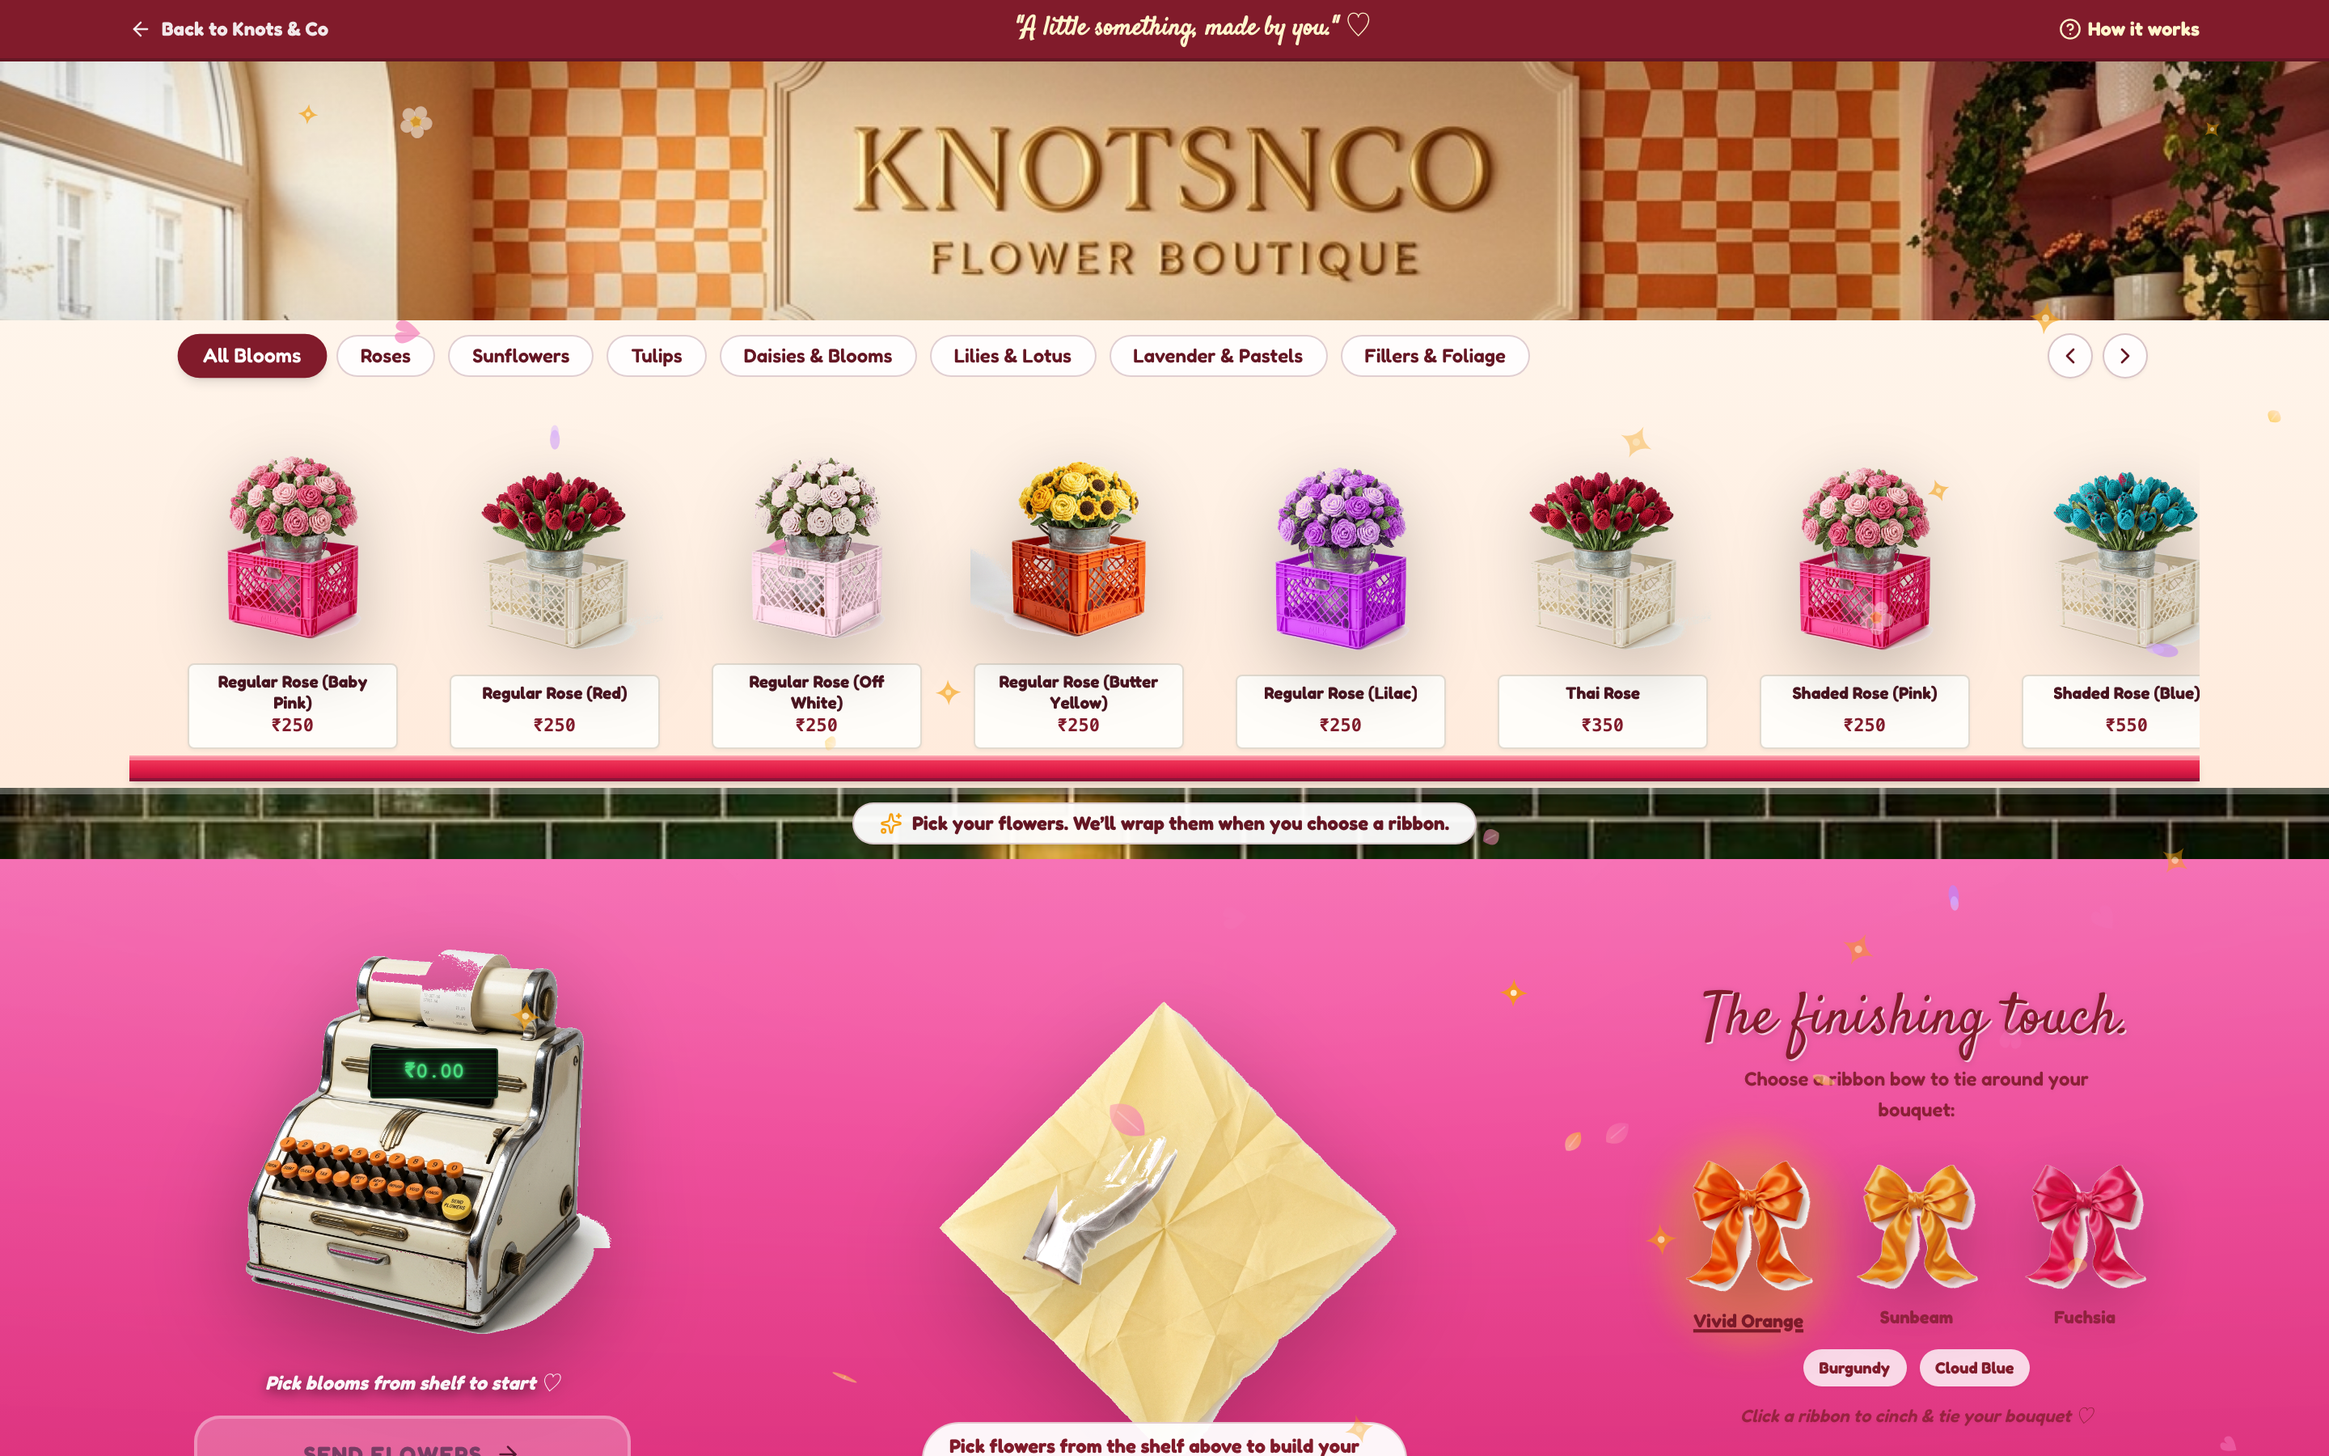
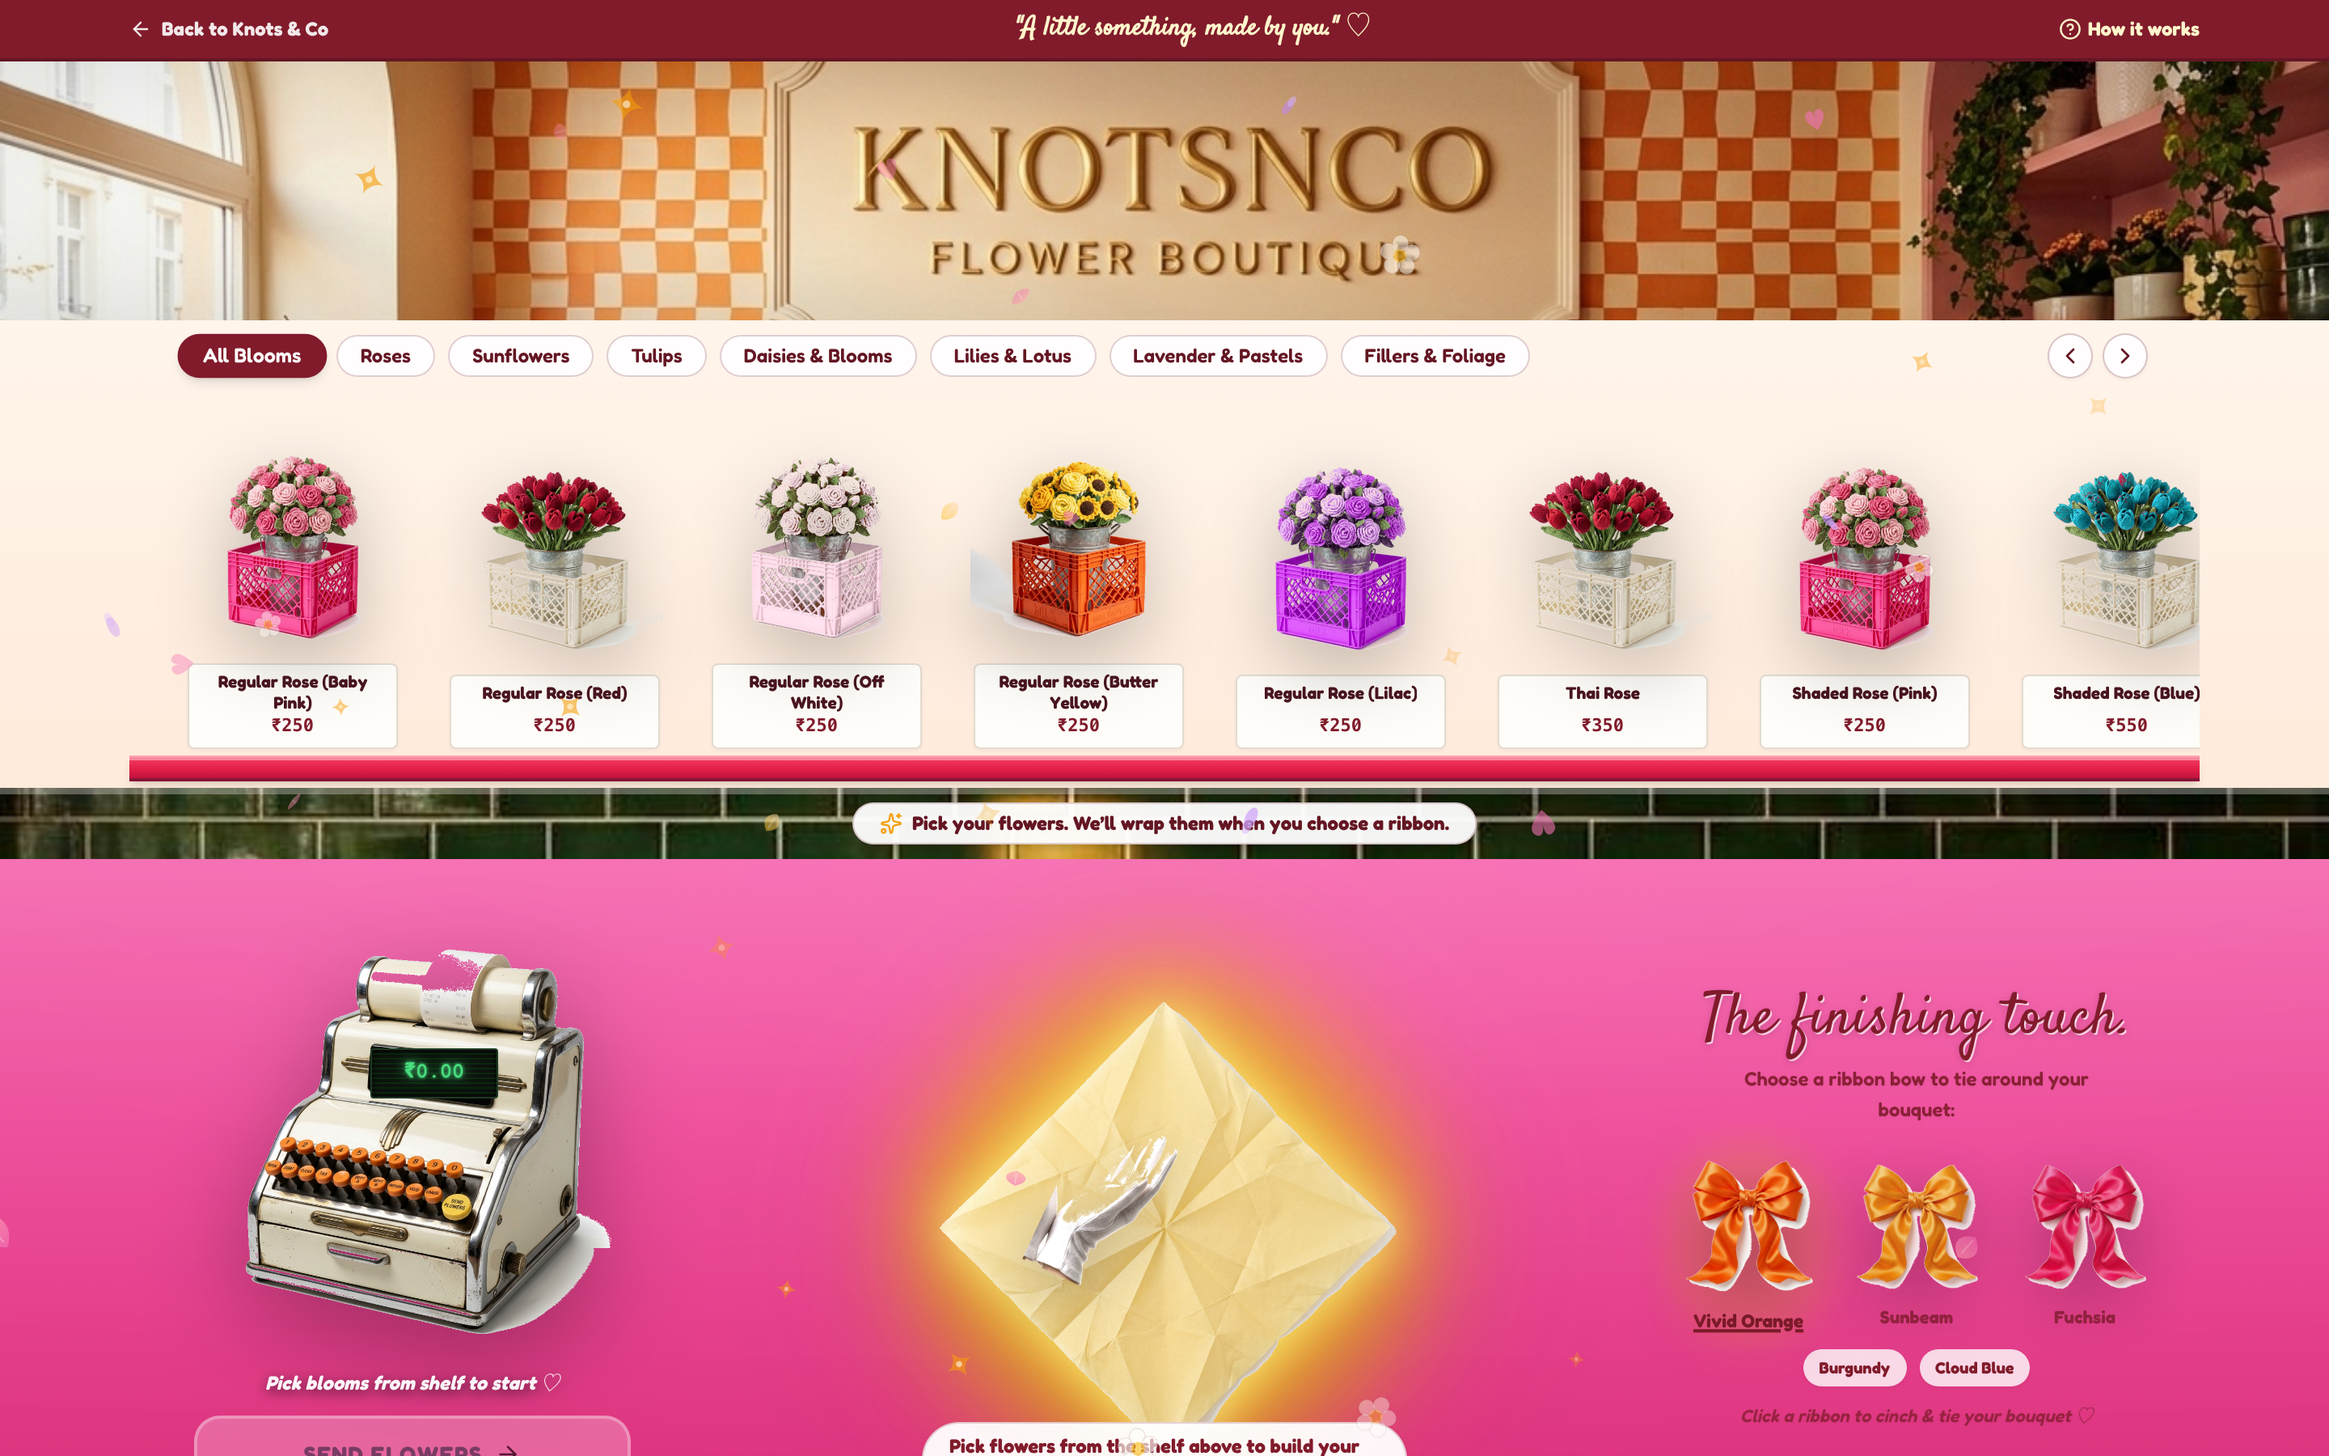
feat(bouquet-builder): add ethereal golden glow around wrapping paper and luminous rim lighting to flowers matching reference

diff --git a/src/components/bouquet-builder/LiveBouquetCounter.tsx b/src/components/bouquet-builder/LiveBouquetCounter.tsx
@@ -48,7 +48,7 @@ export const LiveBouquetCounter: React.FC<LiveBouquetCounterProps> = ({
   // If user has chosen ribbon AND has at least 1 flower, bouquet wraps into a cone!
   const isWrapped = hasRibbonChosen && totalCount > 0;
 
-  // Natural fan arrangement for flower blossoms on open paper
+  // Natural fan arrangement for flower blossoms on open paper (Snug, lush bunch matching Petal Post)
   const getUnwrappedStemStyle = (index: number, total: number): React.CSSProperties => {
     if (total === 0) return {};
     if (total === 1) {
@@ -61,16 +61,16 @@ export const LiveBouquetCounter: React.FC<LiveBouquetCounterProps> = ({
 
     const spread = Math.min(total - 1, 10);
     const progress = spread === 0 ? 0.5 : index / spread;
-    // Fan angle between -26deg and +26deg
-    const angleRange = Math.min(52, 16 + spread * 3.6);
+    // Fan angle between -20deg and +20deg (snug florist fan)
+    const angleRange = Math.min(40, 14 + spread * 3.0);
     const angle = -angleRange / 2 + progress * angleRange;
 
-    // Horizontal spread from -85px to +85px
-    const xRange = Math.min(170, 24 + spread * 15);
+    // Horizontal spread from -55px to +55px (tightly gathered florist bunch matching reference)
+    const xRange = Math.min(115, 20 + spread * 11);
     const xOffset = -xRange / 2 + progress * xRange;
 
     // Arch height: center blooms sit higher
-    const archOffset = (1 - Math.pow((progress - 0.5) * 2, 2)) * 26;
+    const archOffset = (1 - Math.pow((progress - 0.5) * 2, 2)) * 22;
 
     return {
       transform: `translateX(${xOffset}px) translateY(${-archOffset}px) rotate(${angle}deg)`,
@@ -119,18 +119,33 @@ export const LiveBouquetCounter: React.FC<LiveBouquetCounterProps> = ({
               with resting white-gloved hand (Matching Annie's Petal Post)
              ══════════════════════════════════════════════════════════════ */
           <div className="relative flex flex-col items-center justify-center pb-2 animate-fadeIn">
-            {/* Flat diamond open wrapping sheet */}
-            <div className="relative w-[300px] h-[300px] drop-shadow-[0_20px_35px_rgba(0,0,0,0.24)] transition-transform duration-300 hover:scale-[1.02]">
+            {/* Flat diamond open wrapping sheet with centered radiant backlight */}
+            <div className="relative w-[300px] h-[300px] flex items-center justify-center transition-transform duration-300 hover:scale-[1.02]">
+              {/* Luminous yellow radial halo (100% locked to paper center) */}
+              <div
+                className="absolute inset-0 rounded-full pointer-events-none"
+                style={{
+                  background:
+                    'radial-gradient(circle, rgba(254, 240, 138, 0.7) 0%, rgba(250, 204, 21, 0.45) 45%, rgba(245, 158, 11, 0.15) 70%, transparent 85%)',
+                  filter: 'blur(24px)',
+                  transform: 'scale(1.15)',
+                }}
+              />
+
               <img
                 src="/boutique/wrapping-paper-open.png"
                 alt="Open wrapping paper sheet"
-                className="w-full h-full object-contain pointer-events-none select-none"
+                className="relative z-10 w-full h-full object-contain pointer-events-none select-none"
+                style={{
+                  filter:
+                    'drop-shadow(0 0 16px rgba(254, 240, 138, 0.95)) drop-shadow(0 0 32px rgba(250, 204, 21, 0.85)) drop-shadow(0 0 50px rgba(234, 179, 8, 0.5)) drop-shadow(0 16px 28px rgba(0,0,0,0.22))',
+                }}
               />
             </div>
 
             {/* Photorealistic White Gloved Hand resting on paper */}
             <div
-              className="absolute pointer-events-none drop-shadow-[0_10px_20px_rgba(0,0,0,0.3)]"
+              className="absolute pointer-events-none drop-shadow-[0_10px_20px_rgba(0,0,0,0.3)] z-15"
               style={{
                 width: '130px',
                 height: '150px',
@@ -147,7 +162,7 @@ export const LiveBouquetCounter: React.FC<LiveBouquetCounterProps> = ({
             </div>
 
             {/* Instruction Bubble */}
-            <div className="absolute -bottom-2 inset-x-0 flex justify-center pointer-events-none">
+            <div className="absolute -bottom-2 inset-x-0 flex justify-center pointer-events-none z-20">
               <span className="font-['Fredoka'] font-bold text-xs text-[#811B2B] bg-white/95 px-4 py-1.5 rounded-full shadow-md border border-[#811B2B]/20">
                 Pick flowers from the shelf above to build your bouquet ♡
               </span>
@@ -159,15 +174,30 @@ export const LiveBouquetCounter: React.FC<LiveBouquetCounterProps> = ({
               with green stems converging and gloved hand holding stems
              ══════════════════════════════════════════════════════════════ */
           <>
-            {/* Open diamond wrapping paper sheet underneath */}
+            {/* Open diamond wrapping paper sheet underneath with perfectly centered radiant halo */}
             <div
-              className="absolute bottom-3 left-1/2 -translate-x-1/2 z-10 pointer-events-none"
+              className="absolute bottom-3 left-1/2 -translate-x-1/2 z-10 pointer-events-none flex items-center justify-center"
               style={{ width: '310px', height: '310px' }}
             >
+              {/* Luminous sunny-yellow radiant backlight halo (100% centered on paper) */}
+              <div
+                className="absolute inset-0 rounded-full pointer-events-none"
+                style={{
+                  background:
+                    'radial-gradient(circle, rgba(254, 240, 138, 0.75) 0%, rgba(250, 204, 21, 0.5) 45%, rgba(245, 158, 11, 0.18) 70%, transparent 85%)',
+                  filter: 'blur(26px)',
+                  transform: 'scale(1.18)',
+                }}
+              />
+
               <img
                 src="/boutique/wrapping-paper-open.png"
                 alt="Open wrapping paper"
-                className="w-full h-full object-contain drop-shadow-[0_18px_32px_rgba(0,0,0,0.22)] pointer-events-none"
+                className="relative z-10 w-full h-full object-contain pointer-events-none"
+                style={{
+                  filter:
+                    'drop-shadow(0 0 16px rgba(254, 240, 138, 0.95)) drop-shadow(0 0 32px rgba(250, 204, 21, 0.85)) drop-shadow(0 0 50px rgba(234, 179, 8, 0.5)) drop-shadow(0 16px 28px rgba(0,0,0,0.22))',
+                }}
               />
             </div>
 
@@ -186,7 +216,7 @@ export const LiveBouquetCounter: React.FC<LiveBouquetCounterProps> = ({
                 {flowerInstances.slice(0, 16).map((_, idx) => {
                   const spread = Math.min(flowerInstances.length - 1, 10);
                   const progress = spread === 0 ? 0.5 : idx / spread;
-                  const xRange = Math.min(160, 20 + spread * 14);
+                  const xRange = Math.min(115, 20 + spread * 11);
                   const startX = 120 + (progress - 0.5) * xRange;
                   return (
                     <line
@@ -196,16 +226,31 @@ export const LiveBouquetCounter: React.FC<LiveBouquetCounterProps> = ({
                       x2="120"
                       y2="105"
                       stroke="#3B6B22"
-                      strokeWidth="2.8"
+                      strokeWidth="3.2"
                       strokeLinecap="round"
-                      opacity="0.9"
+                      opacity="0.95"
                     />
                   );
                 })}
               </svg>
             </div>
 
-            {/* Flowers fanning out on the open paper (Nestled directly on yellow paper) */}
+            {/* ── Luminous Soft Bloom behind flower heads ── */}
+            <div
+              className="absolute pointer-events-none z-18 rounded-full"
+              style={{
+                bottom: '95px',
+                left: '50%',
+                transform: 'translateX(-50%)',
+                width: '180px',
+                height: '130px',
+                background:
+                  'radial-gradient(ellipse at center, rgba(255, 255, 255, 0.75) 0%, rgba(254, 240, 138, 0.5) 45%, rgba(250, 204, 21, 0.2) 75%, transparent 90%)',
+                filter: 'blur(16px)',
+              }}
+            />
+
+            {/* Flowers fanning out on the open paper (Nestled directly on yellow paper with glowing luminous pop) */}
             <div
               className="absolute bottom-[65px] left-1/2 pointer-events-none z-20"
               style={{ transform: 'translateX(-50%)', width: '1px', height: '1px' }}
@@ -227,7 +272,11 @@ export const LiveBouquetCounter: React.FC<LiveBouquetCounterProps> = ({
                     <img
                       src={flower.cutoutImage || flower.image}
                       alt={flower.name}
-                      className="w-full h-full object-contain select-none pointer-events-none drop-shadow-[0_10px_18px_rgba(0,0,0,0.25)]"
+                      className="w-full h-full object-contain select-none pointer-events-none transition-transform duration-300 hover:scale-105"
+                      style={{
+                        filter:
+                          'brightness(1.08) contrast(1.06) saturate(1.15) drop-shadow(0 0 10px rgba(255, 245, 180, 0.7)) drop-shadow(0 0 20px rgba(254, 224, 71, 0.4)) drop-shadow(0 12px 20px rgba(0,0,0,0.25))',
+                      }}
                     />
                   </div>
                 );
@@ -251,10 +300,10 @@ export const LiveBouquetCounter: React.FC<LiveBouquetCounterProps> = ({
               />
             </div>
 
-            {/* Subtitle guidance text */}
-            <div className="absolute -bottom-1 inset-x-0 flex justify-center z-30">
-              <span className="font-['Fredoka'] text-[11px] font-bold text-[#811B2B] bg-white/95 px-4 py-1.5 rounded-full shadow-sm border border-[#811B2B]/20">
-                Choose a ribbon on the right to wrap your bouquet 🎀
+            {/* ── Small White Stem Count Pill at bottom tip of paper (Matching Petal Post reference) ── */}
+            <div className="absolute -bottom-1.5 inset-x-0 flex justify-center z-30 pointer-events-none">
+              <span className="font-['Fredoka'] text-[11px] font-bold text-[#811B2B] bg-white/95 px-3.5 py-1 rounded-full shadow-md border border-[#811B2B]/20">
+                {totalCount} {totalCount === 1 ? 'stem' : 'stems'}
               </span>
             </div>
           </>
@@ -304,7 +353,11 @@ export const LiveBouquetCounter: React.FC<LiveBouquetCounterProps> = ({
                     <img
                       src={flower.cutoutImage || flower.image}
                       alt={flower.name}
-                      className="w-full h-full object-contain select-none pointer-events-none drop-shadow-[0_10px_18px_rgba(0,0,0,0.25)]"
+                      className="w-full h-full object-contain select-none pointer-events-none"
+                      style={{
+                        filter:
+                          'brightness(1.08) contrast(1.06) saturate(1.15) drop-shadow(0 0 10px rgba(255, 245, 180, 0.7)) drop-shadow(0 0 20px rgba(254, 224, 71, 0.4)) drop-shadow(0 10px 18px rgba(0,0,0,0.28))',
+                      }}
                     />
                   </div>
                 );
@@ -334,15 +387,30 @@ export const LiveBouquetCounter: React.FC<LiveBouquetCounterProps> = ({
               </div>
             )}
 
-            {/* Photorealistic Folded Crepe Paper Cone (z-20) */}
+            {/* Photorealistic Folded Crepe Paper Cone (z-20) with centered radiant backlight */}
             <div
-              className="absolute bottom-2 left-1/2 -translate-x-1/2 z-20 pointer-events-none"
+              className="absolute bottom-2 left-1/2 -translate-x-1/2 z-20 pointer-events-none flex items-center justify-center transition-transform duration-300 hover:scale-[1.02]"
               style={{ width: '235px', height: '280px' }}
             >
+              {/* Luminous yellow radial halo (100% locked to cone center) */}
+              <div
+                className="absolute inset-0 rounded-full pointer-events-none"
+                style={{
+                  background:
+                    'radial-gradient(ellipse at center, rgba(254, 240, 138, 0.75) 0%, rgba(250, 204, 21, 0.45) 50%, transparent 80%)',
+                  filter: 'blur(22px)',
+                  transform: 'scale(1.15)',
+                }}
+              />
+
               <img
                 src="/boutique/wrapping-paper-cone.png"
                 alt="Wrapped bouquet crepe cone"
-                className="w-full h-full object-contain drop-shadow-[0_20px_35px_rgba(0,0,0,0.3)] pointer-events-none"
+                className="relative z-10 w-full h-full object-contain pointer-events-none"
+                style={{
+                  filter:
+                    'drop-shadow(0 0 16px rgba(254, 240, 138, 0.9)) drop-shadow(0 0 35px rgba(250, 204, 21, 0.65)) drop-shadow(0 18px 32px rgba(0,0,0,0.28))',
+                }}
               />
             </div>
 

diff --git a/src/index.css b/src/index.css
@@ -45,3 +45,22 @@
   -ms-overflow-style: none;
   scrollbar-width: none;
 }
+
+@keyframes pulseGlow {
+  0% {
+    transform: translateX(-50%) scale(0.96);
+    opacity: 0.82;
+  }
+  50% {
+    transform: translateX(-50%) scale(1.05);
+    opacity: 1;
+  }
+  100% {
+    transform: translateX(-50%) scale(0.96);
+    opacity: 0.82;
+  }
+}
+
+.animate-pulseGlow {
+  animation: pulseGlow 3.5s ease-in-out infinite;
+}
